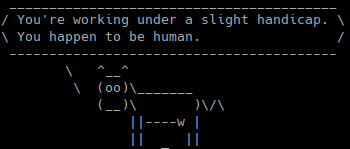
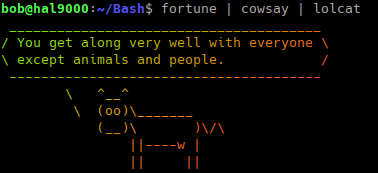
Refactoring  documentation

diff --git a/README.md b/README.md
@@ -2,6 +2,7 @@
 *Bash tools and stuff*
 &nbsp;    
 
+<hr>
 
 ### **Prereq**
 **Install [Linux Debain 12](https://cdimage.debian.org/debian-cd/current-live/amd64/iso-hybrid/)**
@@ -11,14 +12,16 @@ $ screenfetch
 ```
 *screenfetch output*
 ![screenfetch](screenfetch.png)  
-&nbsp; 
+<hr>
+
 ### **Grep for multiple phrases**
-```bash
+```sh
 $ ls | grep 'phrase1\|phrase2' 
 ```
-&nbsp;
+<hr>
+
 ### **Bash encryption tool**
-```bash
+```sh
 $ sudo apt -y install mcrypt
 $ nano test_file.txt #create test file
 ```
@@ -40,10 +43,10 @@ testing...
 $ nano key.txt #create key
 ```
 *GNU nano &nbsp;key.txt*
-```bash
+```sh
 greatPassword42!
 ```
-```console
+```sh
 $ mcrypt test_mcrypt.txt --keyfile key.txt # encrypt file 
 $ rm test_mcrypt.txt # remove original
 $ ls
@@ -53,8 +56,8 @@ $ ls
 key.txt  README.md  test_mcrypt.txt.nc  test_mcrypt.txt  
 ```
 &nbsp;
-### **Require a password/key to view decrypted file**
-```bash
+*Require a password/key to view decrypted file*
+```sh
 $ mcrypt encrypted_file.txt; rm encrypted_file.txt # only the encrypted file remains
 Enter passphrase:
 $ mcrypt -d encrypted_file.txt.nc
@@ -64,6 +67,10 @@ File encrypted_file.txt was encrypted.
 *Now you can encrypt all of your files so no one view them without the key/passphrase* 
 &nbsp;  
 ### **Look pro**
+```sh
+$ sudo apt -y install hollywood
+$ hollywood
+```
 *Hollywood Screenshot*
 ![Hollywood](hollywood.gif)
 &nbsp;   
@@ -75,13 +82,13 @@ $ speedtest
 ```
 ![Speedtest Output](speedtest.png)
 &nbsp;   
-### **Running bash via python**
+### **Running Bash via Python**
 *prereq*
 ```sh
 $ sudo apt -y install cmatrix
 ```
 *bash.py*
-```python
+```py
 import os
 
 bash_command = os.popen('konsole --fullscreen -e cmatrix')
@@ -94,30 +101,30 @@ $ python bash.py
 *bash.py outputs cmatrix*
 ![bash.py output](cmatrix.gif)
 &nbsp;   
-### **Send command via SSH**
+### **Send command via SSH to Raspberry Pi**
 ```sh
 $ ssh pi@localhost 'ls -l'
 ```
 &nbsp;   
-### **A few randoms**
+### **Running dog**
 *Have a dog running accross your screen*
 ```sh
 $ sudo apt -y install oneko
 $ oneko -dog -fg cyan
 ```
 ![oneko dog](oneko_dog.gif)  
-*Cow delivered fortune*
+### **Cow delivered fortune**
 ```sh
 $ sudo apt -y install fortune 
-$ sudo apt -y install xcowsay
-$ fortune | xcowsay
+$ sudo apt -y install cowsay
+$ fortune | cowsay
 ```
 ![Fortune Cow](fortune_cow.png)  
 
-*Generate two random addresses*
-```bash
+### **Generate  random addresses**
+```sh
 $ sudo apy -y install rig
-$ rig -c 2
+$ rig
 ```
 ![Random Address](random_address.png)
 &nbsp;   
@@ -125,15 +132,15 @@ $ rig -c 2
 _Could be useful for gathering semi-random data for data science/machine learning programs_  
 &nbsp;  
 *Prereq*
-```bash
+```sh
 $ sudo apt -y install nodejs
 ```
 *Wiki package install*
-```bash
+```sh
 $ sudo apt -y install wikit -g
 ```
 *Run a wiki query*
-```bash
+```sh
 $ wikit "machine learning"
 ```
 *wikit machine learning output*  
@@ -142,6 +149,7 @@ $ wikit "machine learning"
 
 ### **Battery Status**
 ```sh
+$ sudo apt -y install acpi
 $ acpi -b
 Battery 0: Discharging, 16%, 00:27:07 remaining
 ```
@@ -149,6 +157,7 @@ Battery 0: Discharging, 16%, 00:27:07 remaining
 ### **Fuzzy Finder Search**
 ```sh
 $ sudo apt -y install fzf
+$ fzf
 ```
 ![fuzzy search tool](fzf.png)
 &nbsp;  
